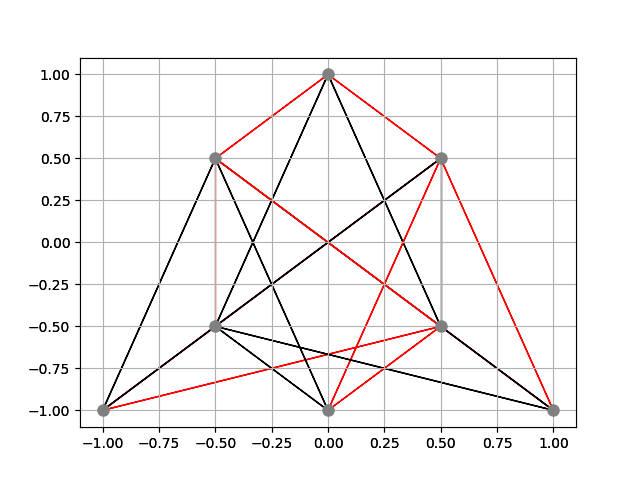
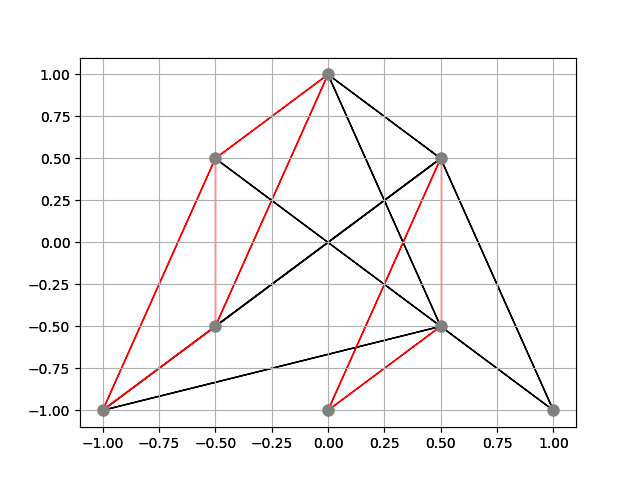
Added branch_nodes list to DesGenome, updated many methods used in create_phenotype_network to take branch nodes param to give it to activate cppn method which outputs accordingly.

diff --git a/pureples/des_hyperneat/des_hyperneat.py b/pureples/des_hyperneat/des_hyperneat.py
@@ -4,7 +4,7 @@ All logic concerning DES-HyperNEAT resides here.
 import copy
 import neat
 import numpy as np
-from pureples.hyperneat.hyperneat import query_cppn
+from pureples.hyperneat.hyperneat import query_cppn_des
 from pureples.shared.visualize import draw_es
 
 
@@ -33,50 +33,55 @@ class DESNetwork:
         """
         Create a RecurrentNetwork using the ES-HyperNEAT approach.
         """
+
         input_coordinates = self.substrate.input_coordinates
         output_coordinates = self.substrate.output_coordinates
+        
+        # For each list of the branch nodes in each branch, create a phenotype network.
+        for branch in zip(*(iter(self.cppn.get_branch_nodes()),) * len(output_coordinates)):
+            branch_nodes = list(branch)
 
-        input_nodes = list(range(len(input_coordinates)))
-        output_nodes = list(range(len(input_nodes), len(
-            input_nodes)+len(output_coordinates)))
-        hidden_idx = len(input_coordinates)+len(output_coordinates)
+            input_nodes = list(range(len(input_coordinates)))
+            output_nodes = list(range(len(input_nodes), len(
+                input_nodes)+len(output_coordinates)))
+            hidden_idx = len(input_coordinates)+len(output_coordinates)
 
-        coordinates, indices, draw_connections, node_evals = [], [], [], []
-        nodes = {}
+            coordinates, indices, draw_connections, node_evals = [], [], [], []
+            nodes = {}
 
-        coordinates.extend(input_coordinates)
-        coordinates.extend(output_coordinates)
-        indices.extend(input_nodes)
-        indices.extend(output_nodes)
+            coordinates.extend(input_coordinates)
+            coordinates.extend(output_coordinates)
+            indices.extend(input_nodes)
+            indices.extend(output_nodes)
 
-        # Map input and output coordinates to their IDs.
-        coords_to_id = dict(zip(coordinates, indices))
+            # Map input and output coordinates to their IDs.
+            coords_to_id = dict(zip(coordinates, indices))
 
-        # Where the magic happens.
-        hidden_nodes, connections = self.des_hyperneat()
+            # Where the magic happens.
+            hidden_nodes, connections = self.des_hyperneat(branch_nodes)
+        
+            # Map hidden coordinates to their IDs.
+            for x, y in hidden_nodes:
+                coords_to_id[x, y] = hidden_idx
+                hidden_idx += 1
 
-        # Map hidden coordinates to their IDs.
-        for x, y in hidden_nodes:
-            coords_to_id[x, y] = hidden_idx
-            hidden_idx += 1
+            # For every coordinate:
+            # Check the connections and create a node with corresponding connections if appropriate.
+            for (x, y), idx in coords_to_id.items():
+                for c in connections:
+                    if c.x2 == x and c.y2 == y:
+                        draw_connections.append(c)
+                        if idx in nodes:
+                            initial = nodes[idx]
+                            initial.append((coords_to_id[c.x1, c.y1], c.weight))
+                            nodes[idx] = initial
+                        else:
+                            nodes[idx] = [(coords_to_id[c.x1, c.y1], c.weight)]
 
-        # For every coordinate:
-        # Check the connections and create a node with corresponding connections if appropriate.
-        for (x, y), idx in coords_to_id.items():
-            for c in connections:
-                if c.x2 == x and c.y2 == y:
-                    draw_connections.append(c)
-                    if idx in nodes:
-                        initial = nodes[idx]
-                        initial.append((coords_to_id[c.x1, c.y1], c.weight))
-                        nodes[idx] = initial
-                    else:
-                        nodes[idx] = [(coords_to_id[c.x1, c.y1], c.weight)]
-
-        # Combine the indices with the connections/links;
-        # forming node_evals used by the RecurrentNetwork.
-        for idx, links in nodes.items():
-            node_evals.append((idx, self.activation, sum, 0.0, 1.0, links))
+            # Combine the indices with the connections/links;
+            # forming node_evals used by the RecurrentNetwork.
+            for idx, links in nodes.items():
+                node_evals.append((idx, self.activation, sum, 0.0, 1.0, links))
 
         # Visualize the network?
         if filename is not None:
@@ -85,6 +90,7 @@ class DESNetwork:
         # This is actually a feedforward network.
         return neat.nn.RecurrentNetwork(input_nodes, output_nodes, node_evals)
 
+        # The hidden node ids need to continue through each branch's nodes and connections.
     @staticmethod
     def get_weights(p):
         """
@@ -104,13 +110,13 @@ class DESNetwork:
 
     def variance(self, p):
         """
-        Find the variance of a given QuadPoint.
+          the variance of a given QuadPoint.
         """
         if not p:
             return 0.0
         return np.var(self.get_weights(p))
 
-    def division_initialization(self, coord, outgoing):
+    def division_initialization(self, coord, outgoing, branch_nodes):
         """
         Initialize the quadtree by dividing it in appropriate quads.
         """
@@ -130,8 +136,8 @@ class DESNetwork:
                                 p.width/2.0, p.width/2.0, p.lvl + 1)
 
             for c in p.cs:
-                c.w = query_cppn(coord, (c.x, c.y), outgoing,
-                                 self.cppn, self.max_weight)
+                c.w = query_cppn_des(coord, (c.x, c.y), outgoing,
+                                 self.cppn, self.max_weight, branch_nodes)
 
             if (p.lvl < self.initial_depth) or (p.lvl < self.max_depth and self.variance(p)
                                                 > self.division_threshold):
@@ -140,7 +146,7 @@ class DESNetwork:
 
         return root
 
-    def pruning_extraction(self, coord, p, outgoing):
+    def pruning_extraction(self, coord, p, outgoing, branch_nodes):
         """
         Determines which connections to express - high variance = more connetions.
         """
@@ -148,16 +154,16 @@ class DESNetwork:
             d_left, d_right, d_top, d_bottom = None, None, None, None
 
             if self.variance(c) > self.variance_threshold:
-                self.pruning_extraction(coord, c, outgoing)
+                self.pruning_extraction(coord, c, outgoing, branch_nodes)
             else:
-                d_left = abs(c.w - query_cppn(coord, (c.x - p.width,
-                                                      c.y), outgoing, self.cppn, self.max_weight))
-                d_right = abs(c.w - query_cppn(coord, (c.x + p.width,
-                                                       c.y), outgoing, self.cppn, self.max_weight))
-                d_top = abs(c.w - query_cppn(coord, (c.x, c.y - p.width),
-                                             outgoing, self.cppn, self.max_weight))
-                d_bottom = abs(c.w - query_cppn(coord, (c.x, c.y +
-                                                        p.width), outgoing, self.cppn, self.max_weight))
+                d_left = abs(c.w - query_cppn_des(coord, (c.x - p.width,
+                                                      c.y), outgoing, self.cppn, self.max_weight, branch_nodes))
+                d_right = abs(c.w - query_cppn_des(coord, (c.x + p.width,
+                                                       c.y), outgoing, self.cppn, self.max_weight, branch_nodes))
+                d_top = abs(c.w - query_cppn_des(coord, (c.x, c.y - p.width),
+                                                        outgoing, self.cppn, self.max_weight, branch_nodes))
+                d_bottom = abs(c.w - query_cppn_des(coord, (c.x, c.y +
+                                                        p.width), outgoing, self.cppn, self.max_weight, branch_nodes))
 
                 con = None
                 if max(min(d_top, d_bottom), min(d_left, d_right)) > self.band_threshold:
@@ -171,7 +177,7 @@ class DESNetwork:
                     if not c.w == 0.0 and con.y1 < con.y2 and not (con.x1 == con.x2 and con.y1 == con.y2):
                         self.connections.add(con)
 
-    def des_hyperneat(self):
+    def des_hyperneat(self, branch_nodes):
         """
         Explores the hidden nodes and their connections.
         """
@@ -181,8 +187,8 @@ class DESNetwork:
         connections1, connections2, connections3 = set(), set(), set()
 
         for x, y in inputs:  # Explore from inputs.
-            root = self.division_initialization((x, y), True)
-            self.pruning_extraction((x, y), root, True)
+            root = self.division_initialization((x, y), True, branch_nodes)
+            self.pruning_extraction((x, y), root, True, branch_nodes)
             connections1 = connections1.union(self.connections)
             for c in connections1:
                 hidden_nodes.add((c.x2, c.y2))
@@ -192,8 +198,8 @@ class DESNetwork:
 
         for _ in range(self.iteration_level):  # Explore from hidden.
             for x, y in unexplored_hidden_nodes:
-                root = self.division_initialization((x, y), True)
-                self.pruning_extraction((x, y), root, True)
+                root = self.division_initialization((x, y), True, branch_nodes)
+                self.pruning_extraction((x, y), root, True, branch_nodes)
                 connections2 = connections2.union(self.connections)
                 for c in connections2:
                     hidden_nodes.add((c.x2, c.y2))
@@ -202,8 +208,8 @@ class DESNetwork:
             unexplored_hidden_nodes = hidden_nodes - unexplored_hidden_nodes
 
         for x, y in outputs:  # Explore to outputs.
-            root = self.division_initialization((x, y), False)
-            self.pruning_extraction((x, y), root, False)
+            root = self.division_initialization((x, y), False, branch_nodes)
+            self.pruning_extraction((x, y), root, False, branch_nodes)
             connections3 = connections3.union(self.connections)
             self.connections = set()
 

diff --git a/pureples/hyperneat/hyperneat.py b/pureples/hyperneat/hyperneat.py
@@ -113,3 +113,24 @@ def query_cppn(coord1, coord2, outgoing, cppn, max_weight=5.0):
         return w * max_weight
     else:
         return 0.0
+
+
+def query_cppn_des(coord1, coord2, outgoing, cppn, branch_nodes, max_weight=5.0):
+    """
+    Get the weight from one point to another using the CPPN.
+    Takes into consideration which point is source/target.
+    """
+
+    if outgoing:
+        i = [coord1[0], coord1[1], coord2[0], coord2[1], 1.0]
+    else:
+        i = [coord2[0], coord2[1], coord1[0], coord1[1], 1.0]
+    w = cppn.activate(i, branch_nodes)[0]
+    if abs(w) > 0.2:  # If abs(weight) is below threshold, treat weight as 0.0.
+        if w > 0:
+            w = (w - 0.2) / 0.8
+        else:
+            w = (w + 0.2) / 0.8
+        return w * max_weight
+    else:
+        return 0.0

diff --git a/pureples/experiments/xor/des_hyperneat_xor.py b/pureples/experiments/xor/des_hyperneat_xor.py
@@ -42,7 +42,7 @@ def params(version):
 DYNAMIC_PARAMS = params(VERSION)
 
 # Config for CPPN.
-CONFIG = neat.config.Config(neat.genome.DefaultGenome, neat.reproduction.DefaultReproduction,
+CONFIG = neat.config.Config(neat.genome.DesGenome, neat.reproduction.DesReproduction,
                             neat.species.DefaultSpeciesSet, neat.stagnation.DefaultStagnation,
                             'pureples/experiments/xor/config_cppn_xor')
 